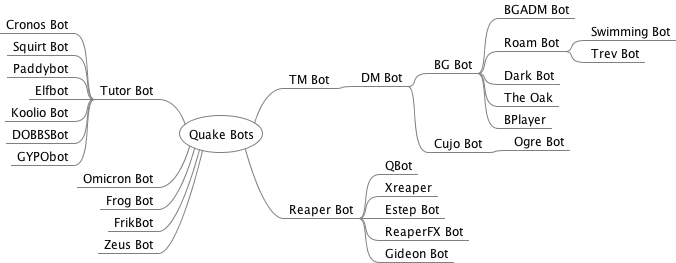
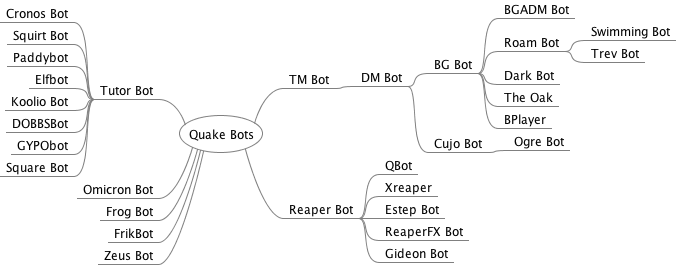
added Square Bot

diff --git a/mindmap/QuakeBots.mm b/mindmap/QuakeBots.mm
@@ -9,6 +9,7 @@
 <node CREATED="1622667943906" ID="ID_660699926" MODIFIED="1622667947106" TEXT="Koolio Bot"/>
 <node CREATED="1622671253021" ID="ID_960217876" MODIFIED="1622671254106" TEXT="DOBBSBot"/>
 <node CREATED="1622671397035" ID="ID_120232391" MODIFIED="1622671398196" TEXT="GYPObot"/>
+<node CREATED="1622672469661" ID="ID_780822664" MODIFIED="1622672471287" TEXT="Square Bot"/>
 </node>
 <node CREATED="1622514200034" ID="ID_1362333058" MODIFIED="1622514302490" POSITION="right" TEXT="TM Bot">
 <node CREATED="1622514242481" ID="ID_1334863165" MODIFIED="1622585805922" TEXT="DM Bot">

diff --git a/README.md b/README.md
@@ -4,10 +4,14 @@ This project is my attempt to locate, archive/mirror, and playtest every quake 1
 
 ## Quake Bot Genealogy
 
+An estimated quake bot genealogy.
+
 ![Quake Bot Genealogy](mindmap/QuakeBots.png)
 
 
 ## Quake Bot List
+
+A complete list of quake 1 bots.
 
 Bot Name | Bot Author(s) | File | Playtested
 --- | --- | --- | ---
@@ -40,5 +44,7 @@ Paddybot | "sniper" | paddybot02.zip | No
 Elfbot | "SkinSki" | [elfbot.zip](bin/elfbot.zip) | Yes
 Koolio Bot | "Koolio" | ? | No
 DOBBSBot | Stephen Dobbs | dobbsbot15b.zip | No
-GYPObot | Stephen Dobbs | [gypobot.zip](gypobot.zip) | Yes
+GYPObot | Stephen Dobbs | [gypobot.zip](bin/gypobot.zip) | Yes
+Square Bot | "ZeO" | ? | No
+
 
